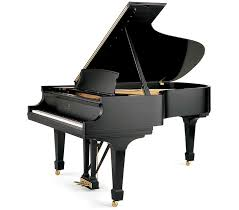
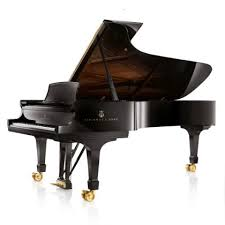
Switch About piano to transparent wireframe and move it to right background.
Keep contact info in place while rendering line-traced Steinway decor behind the section with gradient masks.

diff --git a/src/app/components/SteinwayParticlePiano.tsx b/src/app/components/SteinwayParticlePiano.tsx
@@ -1,28 +1,16 @@
 import { useEffect, useRef } from "react";
 import steinwayReference from "@/assets/steinway-grand-reference.png";
 
-type Point = { x: number; y: number };
-
-type Particle = Point & {
-  baseX: number;
-  baseY: number;
-  size: number;
-  alpha: number;
+type Segment = {
+  x1: number;
+  y1: number;
+  x2: number;
+  y2: number;
+  strength: number;
   phase: number;
-  speed: number;
-  tint: "dark" | "gold" | "mid";
 };
 
-function shuffle<T>(items: T[]): T[] {
-  const copy = [...items];
-  for (let i = copy.length - 1; i > 0; i--) {
-    const j = Math.floor(Math.random() * (i + 1));
-    [copy[i], copy[j]] = [copy[j], copy[i]];
-  }
-  return copy;
-}
-
-function samplePianoFromReference(image: HTMLImageElement): Point[] {
+function buildWireSegments(image: HTMLImageElement): Segment[] {
   const canvas = document.createElement("canvas");
   const width = image.naturalWidth;
   const height = image.naturalHeight;
@@ -34,107 +22,68 @@ function samplePianoFromReference(image: HTMLImageElement): Point[] {
 
   ctx.drawImage(image, 0, 0, width, height);
   const { data } = ctx.getImageData(0, 0, width, height);
-
-  const edgeStrength = new Float32Array(width * height);
-  const darkness = new Float32Array(width * height);
+  const edge = new Float32Array(width * height);
 
   for (let y = 0; y < height; y++) {
     for (let x = 0; x < width; x++) {
       const index = y * width + x;
       const offset = index * 4;
-      const r = data[offset];
-      const g = data[offset + 1];
-      const b = data[offset + 2];
-      const alpha = data[offset + 3];
-      const lum = (0.299 * r + 0.587 * g + 0.114 * b) / 255;
-      const dark = alpha > 20 ? 1 - lum : 0;
-      darkness[index] = dark;
+      const lum =
+        (0.299 * data[offset] + 0.587 * data[offset + 1] + 0.114 * data[offset + 2]) /
+        255;
+      const alpha = data[offset + 3] / 255;
+      const dark = alpha > 0.2 ? 1 - lum : 0;
 
-      const left = x > 0 ? darkness[index - 1] : 0;
-      const up = y > 0 ? darkness[index - width] : 0;
-      edgeStrength[index] = Math.abs(dark - left) + Math.abs(dark - up);
+      const left = x > 0 ? 1 - (0.299 * data[(index - 1) * 4] + 0.587 * data[(index - 1) * 4 + 1] + 0.114 * data[(index - 1) * 4 + 2]) / 255 : dark;
+      const up =
+        y > 0
+          ? 1 -
+            (0.299 * data[(index - width) * 4] +
+              0.587 * data[(index - width) * 4 + 1] +
+              0.114 * data[(index - width) * 4 + 2]) /
+              255
+          : dark;
+
+      edge[index] = Math.abs(dark - left) + Math.abs(dark - up);
     }
   }
 
-  const candidates: Array<Point & { weight: number; tint: Particle["tint"] }> = [];
+  const segments: Segment[] = [];
+  const step = 2;
+  const threshold = 0.14;
 
-  for (let y = 1; y < height - 1; y += 2) {
-    for (let x = 1; x < width - 1; x += 2) {
-      const index = y * width + x;
-      const dark = darkness[index];
-      if (dark < 0.12) continue;
-
-      const edge = edgeStrength[index];
-      const offset = index * 4;
-      const r = data[offset];
-      const g = data[offset + 1];
-      const b = data[offset + 2];
-      const warmth = r - b;
-
-      const tint: Particle["tint"] =
-        warmth > 35 && dark > 0.2 ? "gold" : edge > 0.18 ? "dark" : "mid";
-
-      const weight = dark * 1.8 + edge * 2.4 + (tint === "gold" ? 0.35 : 0);
-      candidates.push({
-        x: (x / width) * 100,
-        y: (y / height) * 100,
-        weight,
-        tint,
-      });
-    }
-  }
-
-  const targetCount = 1500;
-  const weighted = shuffle(candidates);
-  const selected: Array<Point & { tint: Particle["tint"] }> = [];
-  const totalWeight = weighted.reduce((sum, point) => sum + point.weight, 0);
-  let cursor = 0;
-
-  while (selected.length < targetCount && cursor < weighted.length) {
-    const point = weighted[cursor++];
-    const keepChance = Math.min(0.95, (point.weight / totalWeight) * targetCount * 2.2);
-    if (Math.random() < keepChance) {
-      selected.push({
-        x: point.x + (Math.random() - 0.5) * 0.18,
-        y: point.y + (Math.random() - 0.5) * 0.18,
-        tint: point.tint,
-      });
-    }
-  }
-
-  if (selected.length < targetCount * 0.75) {
-    for (const point of weighted) {
-      if (selected.length >= targetCount) break;
-      selected.push({
-        x: point.x + (Math.random() - 0.5) * 0.15,
-        y: point.y + (Math.random() - 0.5) * 0.15,
-        tint: point.tint,
-      });
-    }
-  }
-
-  return selected;
-}
-
-function createParticles(
-  template: Array<Point & { tint?: Particle["tint"] }>
-): Particle[] {
-  return template.map((point) => {
-    const tint = point.tint ?? "mid";
-    const alphaBase = tint === "dark" ? 0.34 : tint === "gold" ? 0.3 : 0.22;
-
-    return {
-      x: point.x,
-      y: point.y,
-      baseX: point.x,
-      baseY: point.y,
-      size: tint === "dark" ? 1 + Math.random() * 1.2 : 0.75 + Math.random() * 1.1,
-      alpha: alphaBase + Math.random() * 0.28,
-      phase: Math.random() * Math.PI * 2,
-      speed: 0.3 + Math.random() * 0.85,
-      tint,
-    };
+  const toNorm = (x: number, y: number) => ({
+    x: (x / width) * 100,
+    y: (y / height) * 100,
   });
+
+  for (let y = 0; y < height - step; y += step) {
+    for (let x = 0; x < width - step; x += step) {
+      const index = y * width + x;
+      const strength = edge[index];
+      if (strength < threshold) continue;
+
+      const a = toNorm(x, y);
+      const phase = Math.random() * Math.PI * 2;
+
+      if (edge[index + step] >= threshold * 0.85) {
+        const b = toNorm(x + step, y);
+        segments.push({ x1: a.x, y1: a.y, x2: b.x, y2: b.y, strength, phase });
+      }
+
+      if (edge[index + width * step] >= threshold * 0.85) {
+        const b = toNorm(x, y + step);
+        segments.push({ x1: a.x, y1: a.y, x2: b.x, y2: b.y, strength, phase });
+      }
+
+      if (edge[index + width * step + step] >= threshold * 0.9) {
+        const b = toNorm(x + step, y + step);
+        segments.push({ x1: a.x, y1: a.y, x2: b.x, y2: b.y, strength: strength * 0.9, phase });
+      }
+    }
+  }
+
+  return segments;
 }
 
 type SteinwayParticlePianoProps = {
@@ -143,7 +92,7 @@ type SteinwayParticlePianoProps = {
 
 export function SteinwayParticlePiano({ className = "" }: SteinwayParticlePianoProps) {
   const canvasRef = useRef<HTMLCanvasElement>(null);
-  const particlesRef = useRef<Particle[]>([]);
+  const segmentsRef = useRef<Segment[]>([]);
   const frameRef = useRef(0);
 
   useEffect(() => {
@@ -174,69 +123,41 @@ export function SteinwayParticlePiano({ className = "" }: SteinwayParticlePianoP
     const draw = (time: number) => {
       if (disposed) return;
 
-      if (width < 2 || height < 2 || particlesRef.current.length === 0) {
+      if (width < 2 || height < 2 || segmentsRef.current.length === 0) {
         frameRef.current = requestAnimationFrame(draw);
         return;
       }
 
       ctx.clearRect(0, 0, width, height);
 
-      const scale = Math.min(width / 100, height / 100) * 0.94;
-      const offsetX = width * 0.5 - 50 * scale;
+      const scale = Math.min(width / 100, height / 100) * 0.96;
+      const offsetX = width * 0.54 - 50 * scale;
       const offsetY = height * 0.5 - 50 * scale;
 
-      for (const particle of particlesRef.current) {
-        const drift = reducedMotion
-          ? 0
-          : Math.sin(time * 0.001 * particle.speed + particle.phase) * 0.22;
-        const lift = reducedMotion
-          ? 0
-          : Math.cos(time * 0.0008 * particle.speed + particle.phase) * 0.18;
+      for (const segment of segmentsRef.current) {
         const pulse = reducedMotion
           ? 1
-          : 0.8 + Math.sin(time * 0.0014 * particle.speed + particle.phase) * 0.2;
-
-        const x = offsetX + (particle.baseX + drift) * scale;
-        const y = offsetY + (particle.baseY + lift) * scale;
-        const alpha = particle.alpha * pulse;
-        const radius = Math.max(
-          1.2,
-          particle.size * scale * (particle.tint === "dark" ? 0.34 : 0.28)
-        );
-
-        if (particle.tint === "gold") {
-          ctx.beginPath();
-          ctx.fillStyle = `rgba(168, 132, 72, ${alpha * 0.9})`;
-          ctx.arc(x, y, radius, 0, Math.PI * 2);
-          ctx.fill();
-          continue;
-        }
+          : 0.88 + Math.sin(time * 0.0012 + segment.phase) * 0.12;
+        const alpha = (0.05 + segment.strength * 0.22) * pulse;
 
         ctx.beginPath();
-        ctx.fillStyle = `rgba(24, 22, 20, ${alpha})`;
-        ctx.arc(x, y, radius, 0, Math.PI * 2);
-        ctx.fill();
-
-        if (particle.tint === "dark") {
-          ctx.beginPath();
-          ctx.fillStyle = `rgba(120, 98, 72, ${alpha * 0.35})`;
-          ctx.arc(x, y, radius * 0.45, 0, Math.PI * 2);
-          ctx.fill();
-        }
+        ctx.moveTo(offsetX + segment.x1 * scale, offsetY + segment.y1 * scale);
+        ctx.lineTo(offsetX + segment.x2 * scale, offsetY + segment.y2 * scale);
+        ctx.strokeStyle = `rgba(70, 70, 70, ${alpha})`;
+        ctx.lineWidth = 0.75 + segment.strength * 0.55;
+        ctx.stroke();
       }
 
       frameRef.current = requestAnimationFrame(draw);
     };
 
-    const handleResize = () => {
-      resize();
-    };
+    const handleResize = () => resize();
 
     const image = new Image();
     image.src = steinwayReference;
     image.onload = () => {
       if (disposed) return;
-      particlesRef.current = createParticles(samplePianoFromReference(image));
+      segmentsRef.current = buildWireSegments(image);
       resize();
       frameRef.current = requestAnimationFrame(draw);
     };

diff --git a/src/app/components/About.tsx b/src/app/components/About.tsx
@@ -44,10 +44,14 @@ export function About() {
       <div className="absolute bottom-20 right-6 w-14 h-14 border-b border-r border-gray-200/80 pointer-events-none hidden md:block" />
 
       {/* rings & dots */}
-      <div className="absolute top-40 right-[12%] w-24 h-24 rounded-full border border-gray-200/50 pointer-events-none hidden lg:block" />
       <div className="absolute bottom-40 left-[10%] w-16 h-16 rounded-full border border-gray-200/45 pointer-events-none hidden lg:block" />
       <div className="absolute top-[55%] left-[5%] w-2 h-2 rounded-full bg-gray-300/40 pointer-events-none hidden md:block" />
-      <div className="absolute top-[35%] right-[8%] w-1.5 h-1.5 rounded-full bg-gray-300/40 pointer-events-none hidden md:block" />
+
+      <div className="pointer-events-none absolute inset-y-24 right-0 z-[1] hidden w-[min(52%,560px)] md:block">
+        <div className="absolute inset-0 bg-gradient-to-l from-background via-background/55 to-transparent" />
+        <div className="absolute inset-0 bg-gradient-to-t from-background/70 via-transparent to-background/35" />
+        <SteinwayParticlePiano className="h-full w-full opacity-75" />
+      </div>
 
       <div className="container-site relative z-10">
         <SectionHeader
@@ -59,54 +63,45 @@ export function About() {
         />
 
         <motion.div
-          className="mb-16 grid grid-cols-1 items-start gap-8 border-b border-border pb-16 md:grid-cols-[minmax(0,1fr)_min(300px,34%)] md:gap-10 lg:grid-cols-[minmax(0,1fr)_min(360px,38%)]"
+          className="relative mb-16 flex flex-col items-start gap-8 border-b border-border pb-16 sm:flex-row sm:gap-10"
           initial={{ opacity: 0, y: 30 }}
           animate={isVisible ? { opacity: 1, y: 0 } : {}}
           transition={transition({ duration: 0.8, delay: 0.1 })}
         >
-          <div className="flex flex-col items-start gap-8 sm:flex-row sm:gap-10">
-            <div className="relative shrink-0">
-              <div className="absolute -inset-2 rounded-full bg-gradient-to-br from-violet-100/60 via-sky-50/40 to-emerald-50/40 blur-sm pointer-events-none" />
-              <motion.img
-                src={profileImage}
-                alt={t.about.profileAlt}
-                className="relative w-36 h-36 sm:w-40 sm:h-40 rounded-full object-cover border-4 border-card shadow-lg"
-                whileHover={{ scale: 1.03 }}
-                transition={{ duration: 0.3 }}
-              />
-            </div>
-
-            <div className="min-w-0 flex-1 text-left">
-              <h3 className="text-3xl font-semibold mb-2">{t.hero.name}</h3>
-              <p className="text-muted-foreground mb-8">{t.hero.role}</p>
-
-              <div className="grid grid-cols-1 sm:grid-cols-2 gap-x-8 gap-y-5">
-                {contactItems.map((item, index) => {
-                  const meta = contactMeta[index];
-                  const Icon = meta.icon;
-                  return (
-                    <div key={item.label} className="flex items-start gap-3 min-w-0">
-                      <Icon size={18} className={`${meta.color} shrink-0 mt-0.5`} />
-                      <div className="min-w-0">
-                        <p className="text-sm text-muted-foreground mb-0.5">{item.label}</p>
-                        <p
-                          className={`text-foreground ${item.breakAll ? "break-all" : ""}`}
-                        >
-                          {item.value}
-                        </p>
-                      </div>
-                    </div>
-                  );
-                })}
-              </div>
-            </div>
+          <div className="relative shrink-0">
+            <div className="absolute -inset-2 rounded-full bg-gradient-to-br from-violet-100/60 via-sky-50/40 to-emerald-50/40 blur-sm pointer-events-none" />
+            <motion.img
+              src={profileImage}
+              alt={t.about.profileAlt}
+              className="relative w-36 h-36 sm:w-40 sm:h-40 rounded-full object-cover border-4 border-card shadow-lg"
+              whileHover={{ scale: 1.03 }}
+              transition={{ duration: 0.3 }}
+            />
           </div>
 
-          <div
-            className="pointer-events-none hidden min-h-[280px] md:flex md:items-center md:justify-center lg:min-h-[320px]"
-            aria-hidden="true"
-          >
-            <SteinwayParticlePiano className="h-[280px] w-full max-w-[360px] lg:h-[320px]" />
+          <div className="min-w-0 flex-1 text-left">
+            <h3 className="text-3xl font-semibold mb-2">{t.hero.name}</h3>
+            <p className="text-muted-foreground mb-8">{t.hero.role}</p>
+
+            <div className="grid grid-cols-1 sm:grid-cols-2 gap-x-8 gap-y-5 max-w-xl">
+              {contactItems.map((item, index) => {
+                const meta = contactMeta[index];
+                const Icon = meta.icon;
+                return (
+                  <div key={item.label} className="flex items-start gap-3 min-w-0">
+                    <Icon size={18} className={`${meta.color} shrink-0 mt-0.5`} />
+                    <div className="min-w-0">
+                      <p className="text-sm text-muted-foreground mb-0.5">{item.label}</p>
+                      <p
+                        className={`text-foreground ${item.breakAll ? "break-all" : ""}`}
+                      >
+                        {item.value}
+                      </p>
+                    </div>
+                  </div>
+                );
+              })}
+            </div>
           </div>
         </motion.div>
 